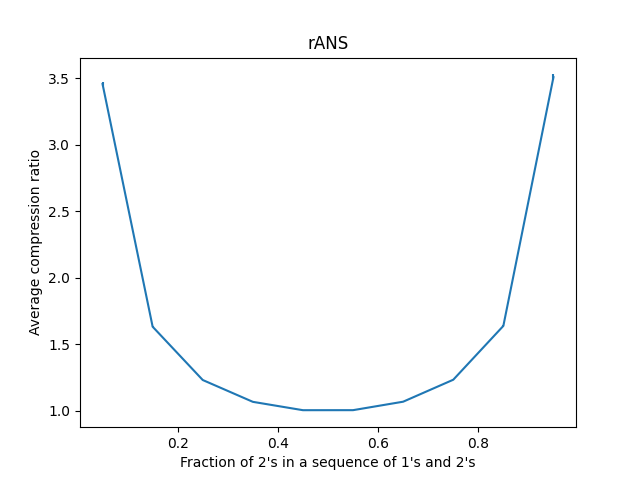
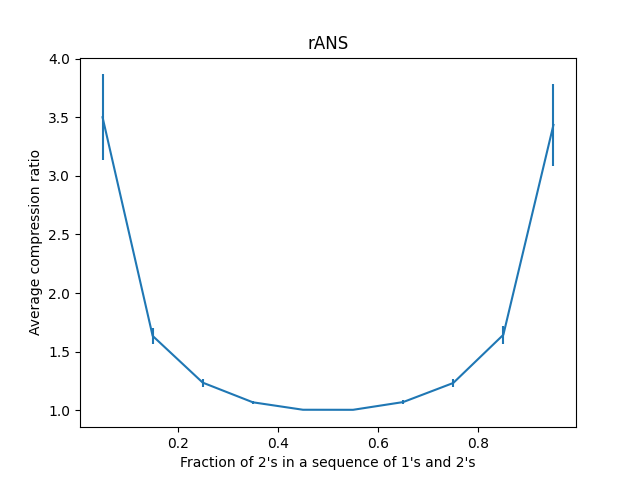
Edit randomSeq to reflect probabilty distribution

diff --git a/src/unknown_dist.py b/src/unknown_dist.py
@@ -12,6 +12,7 @@ def countBits(n: int) -> int:
     return len(bin(n)) - 2
 
 
+random.seed(1)
 def test_ratio(p: float) -> list[float]:
     # p: the true proportion of 2's
     # fix constant distribution q = 0.1 to match f = (1, 9)s
@@ -30,11 +31,8 @@ def test_ratio(p: float) -> list[float]:
     numBitsResults = []
 
     for trial in range(TRIALS):
-        randomTwosIndices = random.sample(range(M), k=int(p*M))
-        randomSeq = [1 for i in range(M)]
-        for ri in randomTwosIndices:
-            randomSeq[ri] = 2
-        randomSeq = tuple(randomSeq)
+        randomSeq = tuple(2 if random.uniform(0, 1) <
+                          p else 1 for i in range(M))
         enc = e.encodeSequence(randomSeq)
         numBitsResults.append(countBits(enc))
 
@@ -71,3 +69,11 @@ plt.show()
 
 print("average compression ratio")
 print(*map(lambda x: round(x, 1), comps), sep=" & ")
+print()
+
+def kll(p):
+    return p*log2(p/0.9) + (1-p) * log2((1-p)/0.1)
+
+print("KLD")
+for p in range(5, 50, 10):
+    print(kll(p/100), end = " & ")

diff --git a/src/known_dist.py b/src/known_dist.py
@@ -12,10 +12,11 @@ def countBits(n: int) -> int:
     return len(bin(n)) - 2
 
 
+random.seed(0)
 def test_ratio(p: float) -> list[float]:
     # p: the true proportion of 2's
-    nOnes: int = int(p * M)
-    nTwos: int = M - nOnes
+    nTwos: int = int(p * M)
+    nOnes: int = M - nTwos
 
     # reduce the ratios in f to simplest form
     g: int = gcd(nOnes, nTwos)
@@ -28,11 +29,7 @@ def test_ratio(p: float) -> list[float]:
     numBitsResults = []
 
     for trial in range(TRIALS):
-        randomTwosIndices = random.sample(range(M), k=nTwos)
-        randomSeq = [1 for i in range(M)]
-        for ri in randomTwosIndices:
-            randomSeq[ri] = 2
-        randomSeq = tuple(randomSeq)
+        randomSeq = tuple(2 if random.uniform(0, 1) < p else 1 for i in range(M))
         enc = e.encodeSequence(randomSeq)
         numBitsResults.append(countBits(enc))
 
